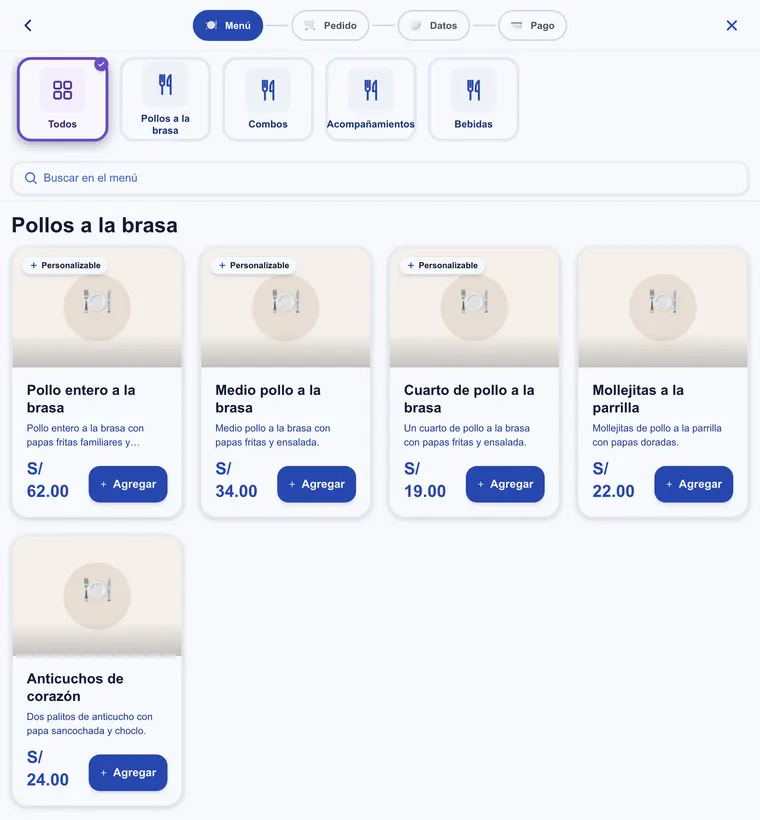
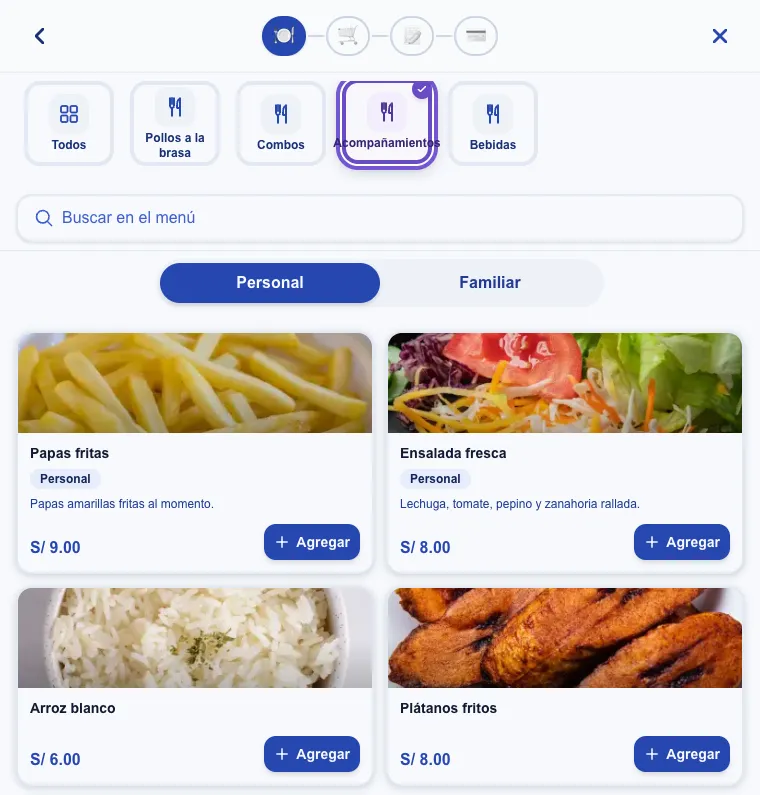
G-08: capturas nuevas de tienda y kiosko desde la demo publicada, con fotos

diff --git a/src/components/sections/CanalesPropios.tsx b/src/components/sections/CanalesPropios.tsx
@@ -22,9 +22,9 @@ export function CanalesPropios() {
               <div className="overflow-hidden rounded-[1.4rem] border-4 border-sand-900 bg-white shadow-elevated">
                 <Image
                   src="/capturas/tienda-carta.webp"
-                  alt="Carta de la tienda de ejemplo en un celular, con categorías, platos y precios"
+                  alt="Carta de la tienda de ejemplo en un celular: acompañamientos con foto, tamaños y precio"
                   width={560}
-                  height={1106}
+                  height={1120}
                   sizes="(max-width: 640px) 45vw, 300px"
                   className="h-auto w-full"
                 />
@@ -39,9 +39,9 @@ export function CanalesPropios() {
               <div className="overflow-hidden rounded-xl border-4 border-sand-800 bg-white shadow-elevated">
                 <Image
                   src="/capturas/kiosko-carta.webp"
-                  alt="Pantalla del kiosko de autoservicio con la carta y el botón Agregar"
+                  alt="Kiosko de autoservicio con la misma carta: acompañamientos con foto, precio y botón Agregar"
                   width={760}
-                  height={820}
+                  height={795}
                   sizes="(max-width: 640px) 45vw, 420px"
                   className="h-auto w-full"
                 />
